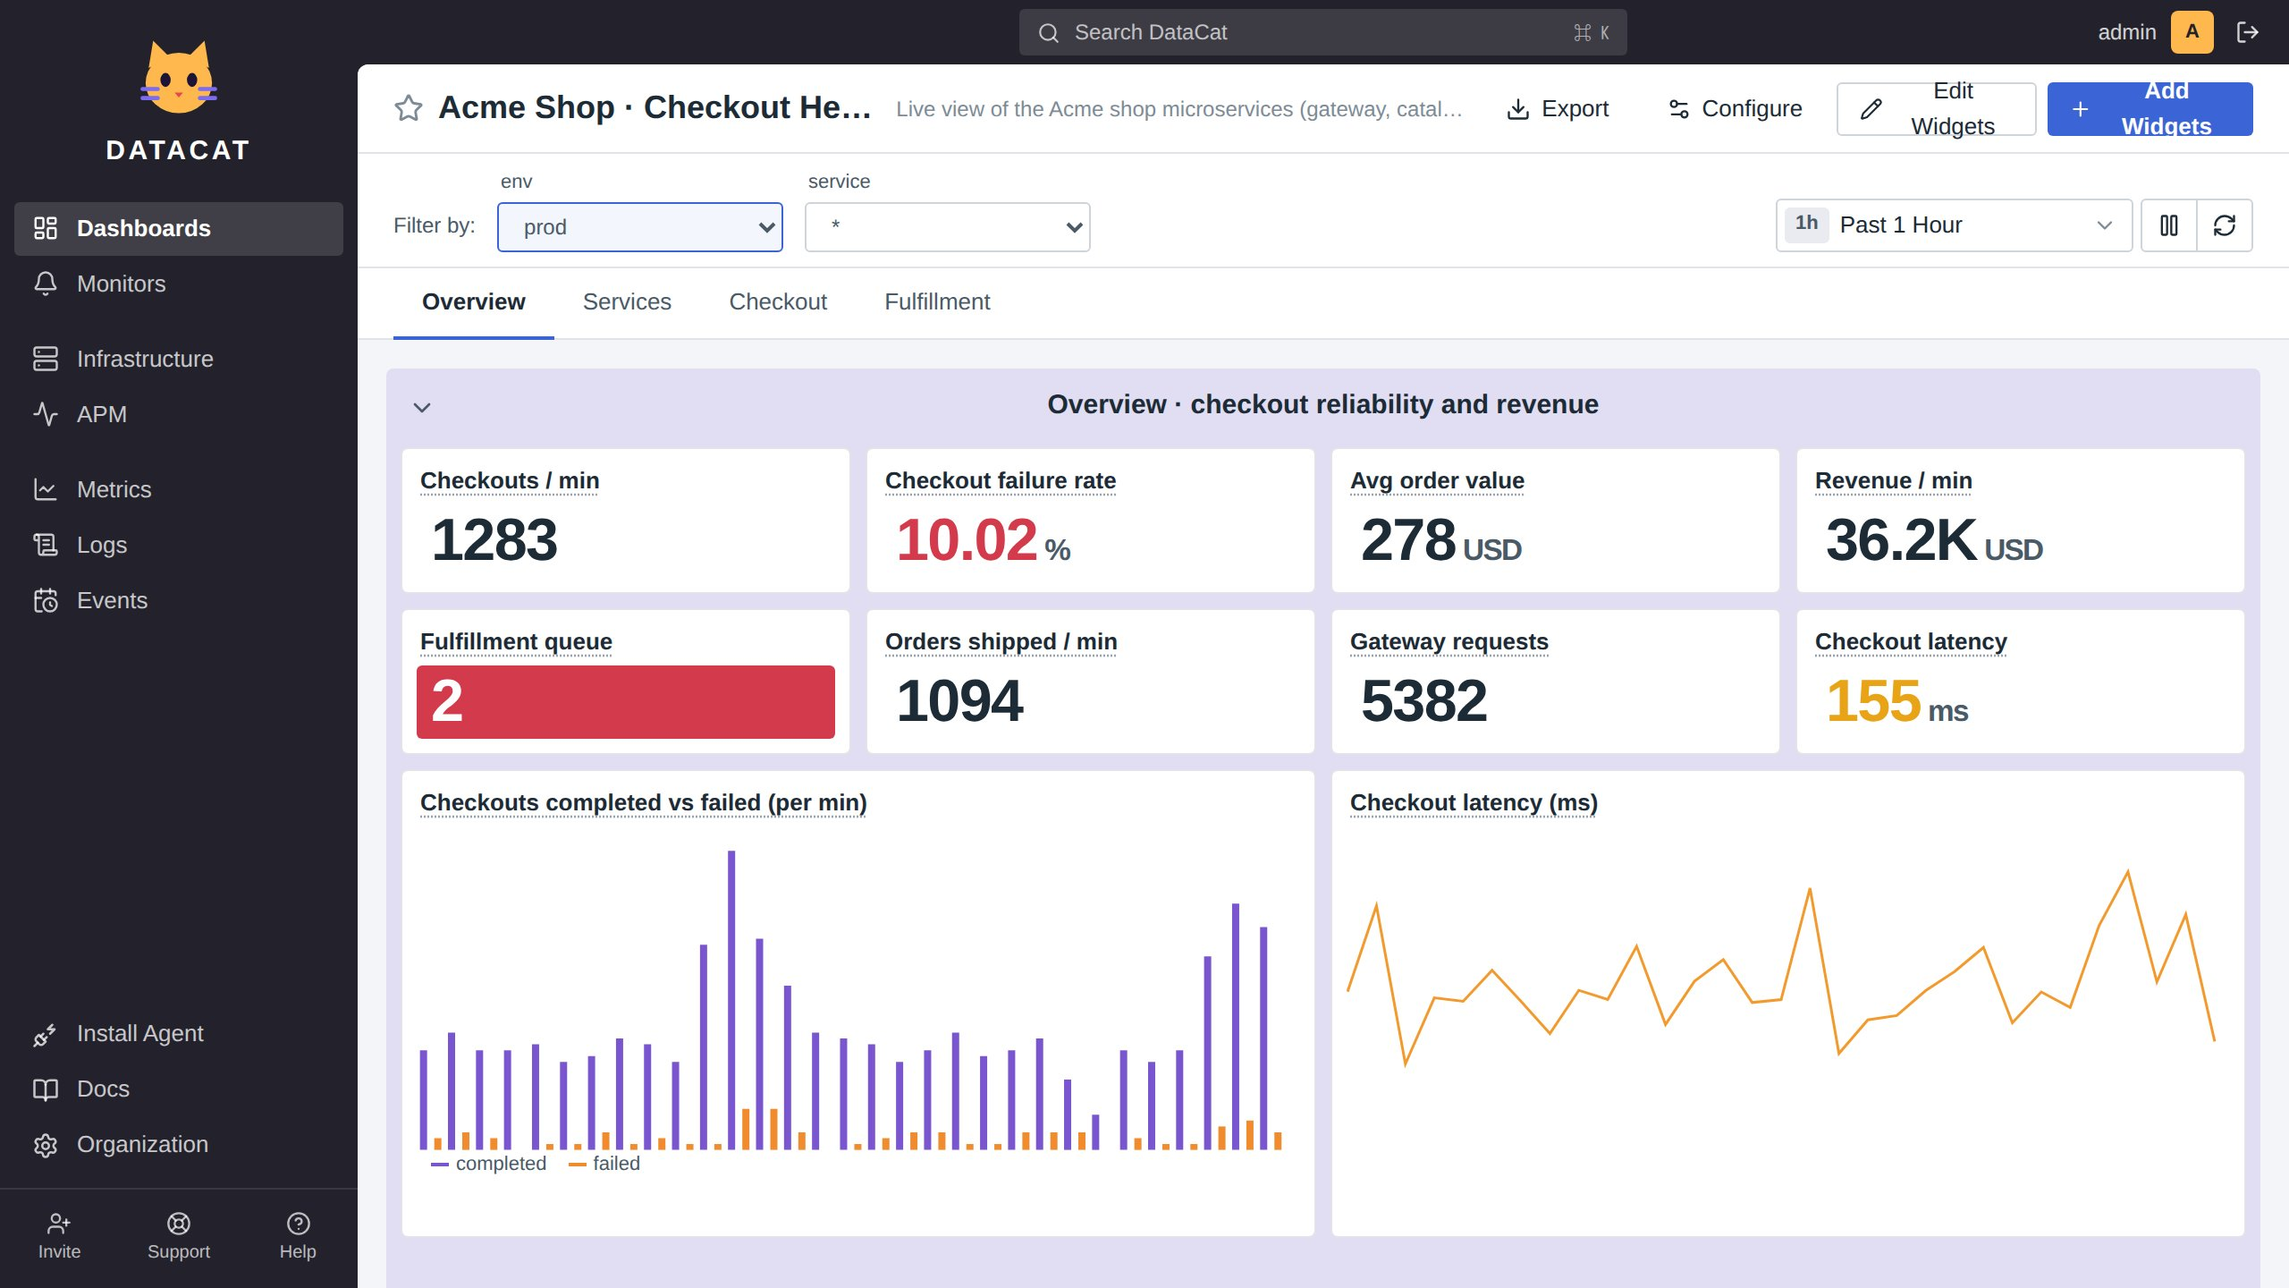
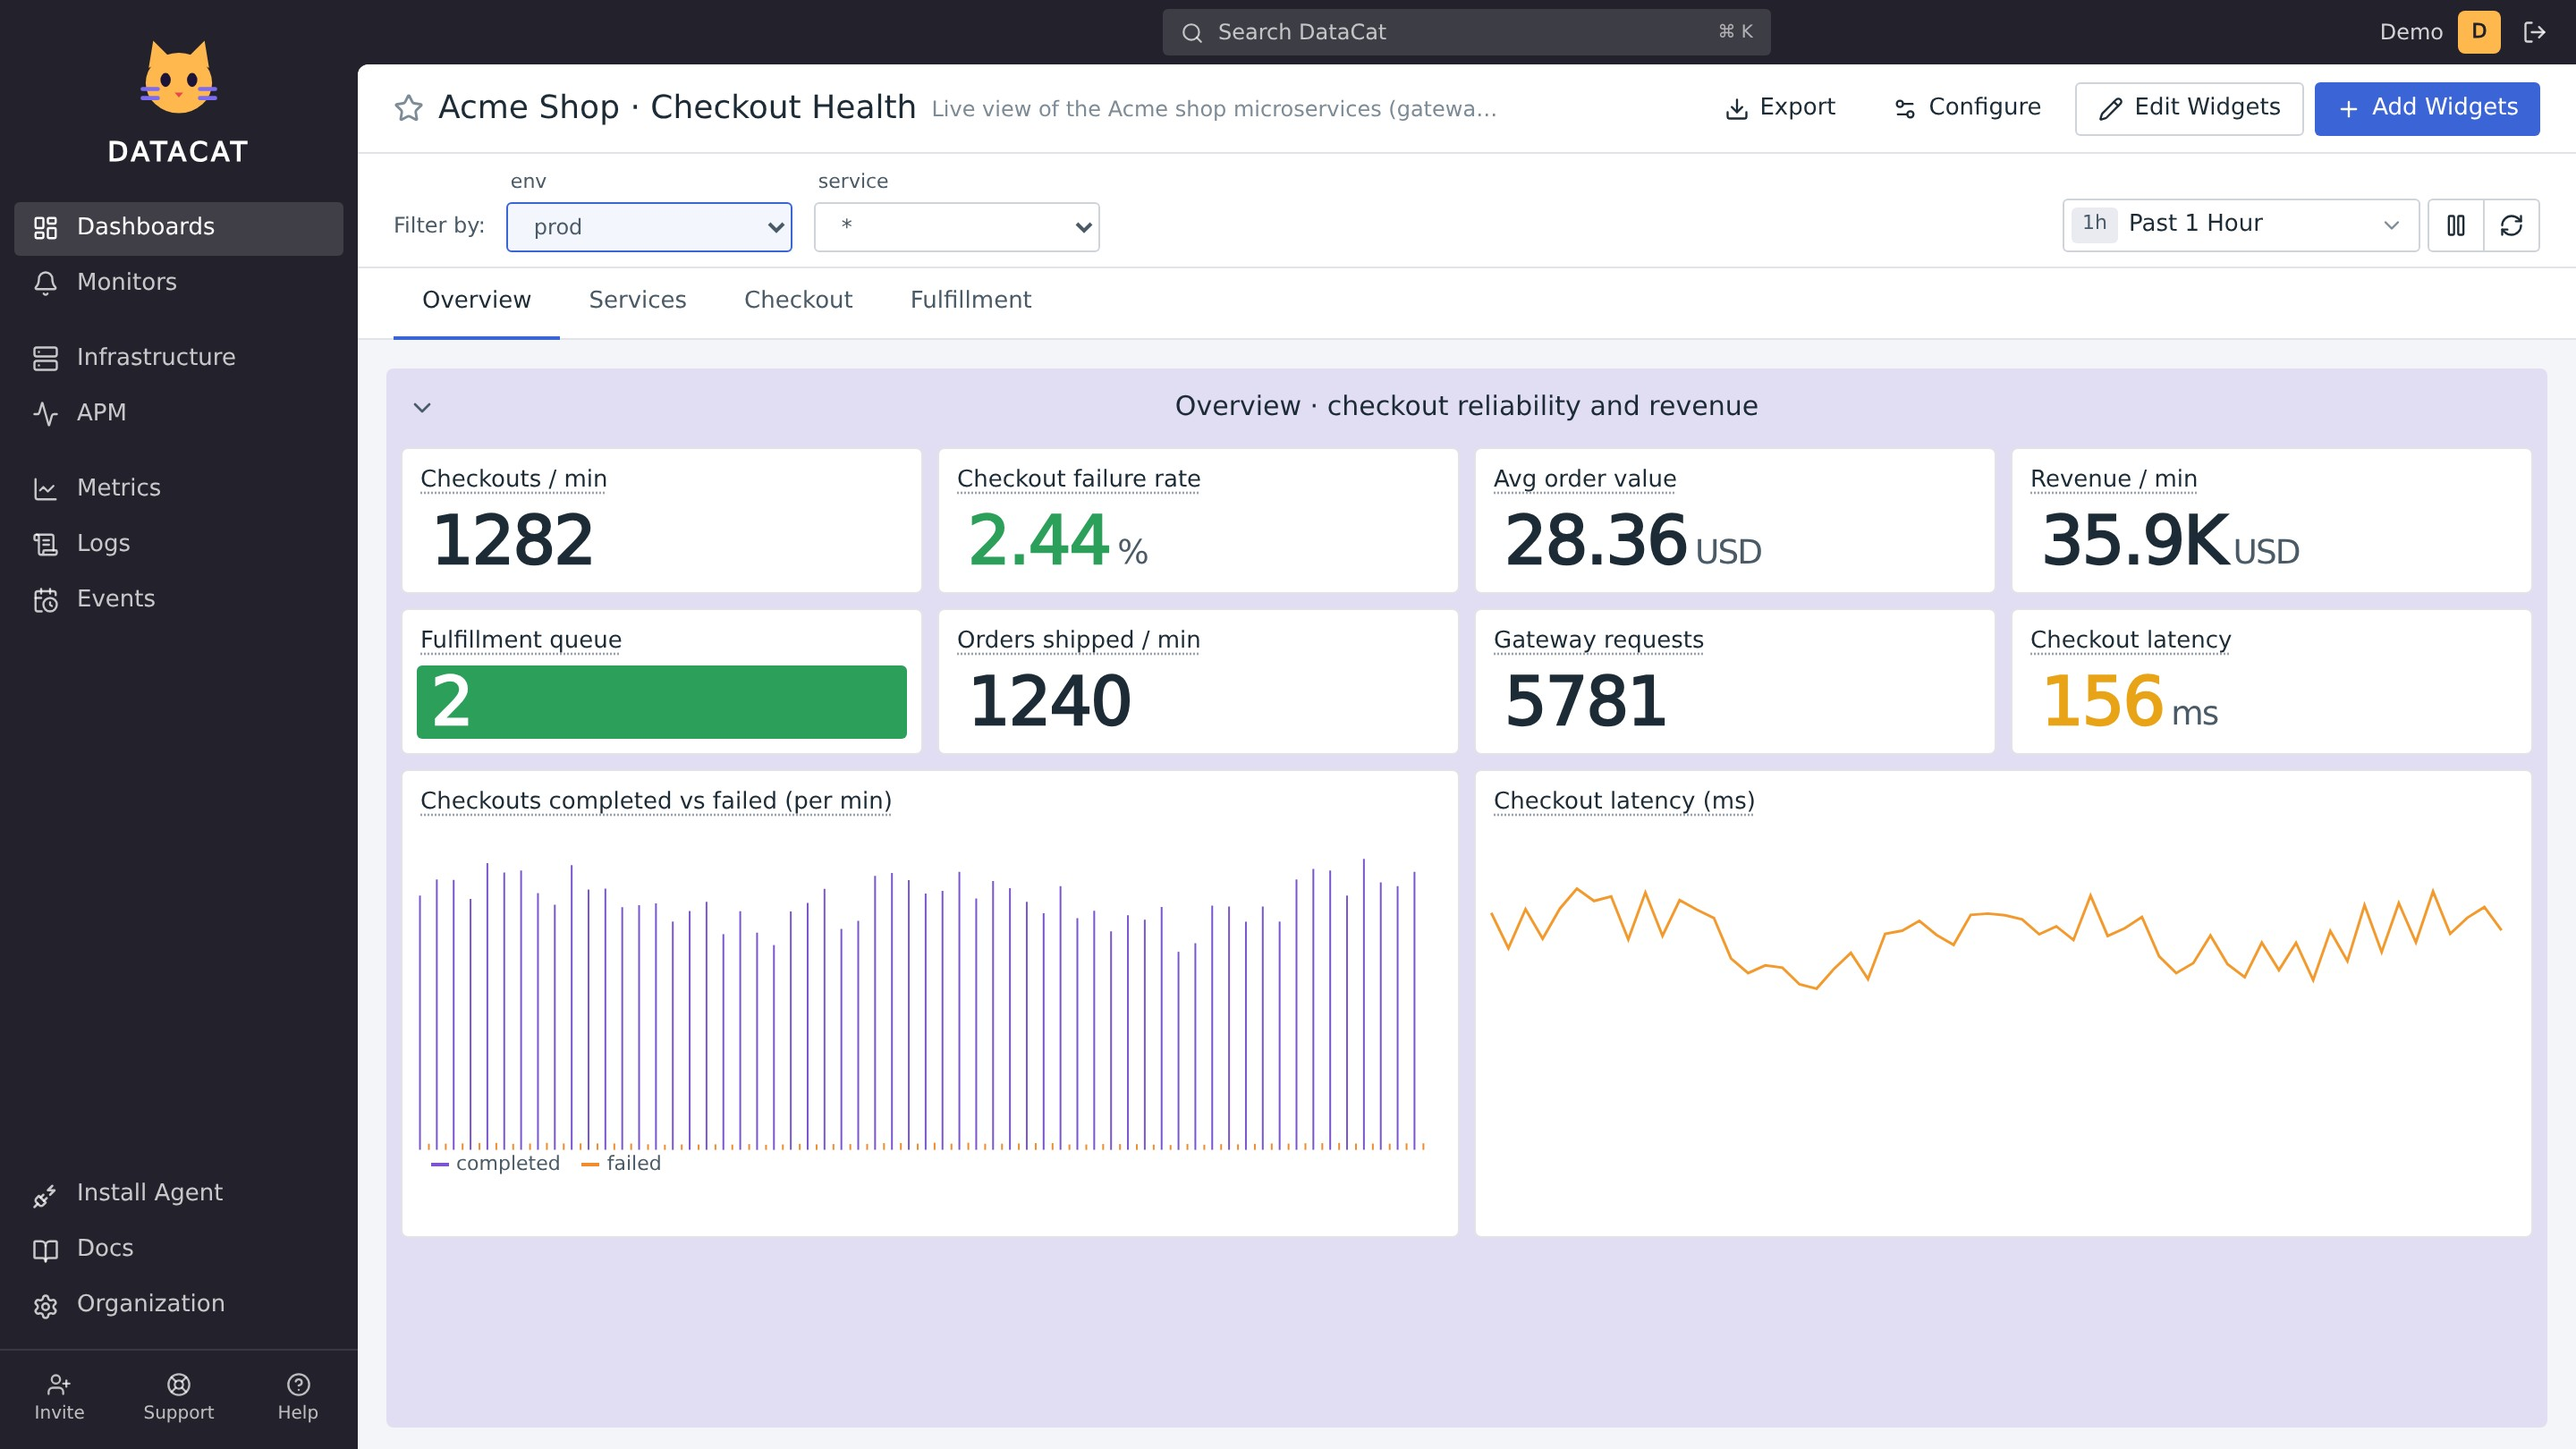
Keep dashboard toolbar labels on one line
Assisted-by: Replit

diff --git a/artifacts/web/src/pages/Dashboards.tsx b/artifacts/web/src/pages/Dashboards.tsx
@@ -694,21 +694,29 @@ export function DashboardView() {
   };
   return (
     <div className="min-h-full bg-canvas">
-      <div className="flex items-center gap-2 px-5 h-[50px] border-b border-line bg-white sticky top-0 z-20">
-        <button onClick={() => toggleFav(id)} title="Favorite" className="text-ink-3 hover:text-accent">
-          <Star size={17} className={isFav ? "fill-accent text-accent" : ""} />
-        </button>
-        {editing ? (
-          <input className="input text-[16px] font-semibold w-96" value={draft.title} onChange={(e) => setDraft({ ...draft, title: e.target.value })} />
-        ) : (
-          <h1 className="text-[18px] font-semibold truncate">{draft.title}</h1>
-        )}
-        {draft.description && !editing && (
-          <span className="text-ink-3 text-xs truncate max-w-[320px]" title={draft.description}>
-            {draft.description}
-          </span>
-        )}
-        <div className="ml-auto flex items-center gap-1.5">
+      <div className="flex flex-wrap items-center gap-2 px-5 py-2 min-h-[50px] border-b border-line bg-white sticky top-0 z-20">
+        <div className="flex flex-[1_1_18rem] min-w-0 items-center gap-2">
+          <button onClick={() => toggleFav(id)} title="Favorite" className="shrink-0 text-ink-3 hover:text-accent">
+            <Star size={17} className={isFav ? "fill-accent text-accent" : ""} />
+          </button>
+          {editing ? (
+            <input
+              className="input text-[16px] font-semibold min-w-0 w-96"
+              value={draft.title}
+              onChange={(e) => setDraft({ ...draft, title: e.target.value })}
+            />
+          ) : (
+            <h1 className="text-[18px] font-semibold truncate shrink-0 max-w-[calc(100%-25px)]" title={draft.title}>
+              {draft.title}
+            </h1>
+          )}
+          {draft.description && !editing && (
+            <span className="text-ink-3 text-xs truncate max-w-[320px]" title={draft.description}>
+              {draft.description}
+            </span>
+          )}
+        </div>
+        <div className="ml-auto flex max-w-full flex-wrap items-center justify-end gap-1.5 whitespace-nowrap">
           {editing ? (
             <>
               <button
